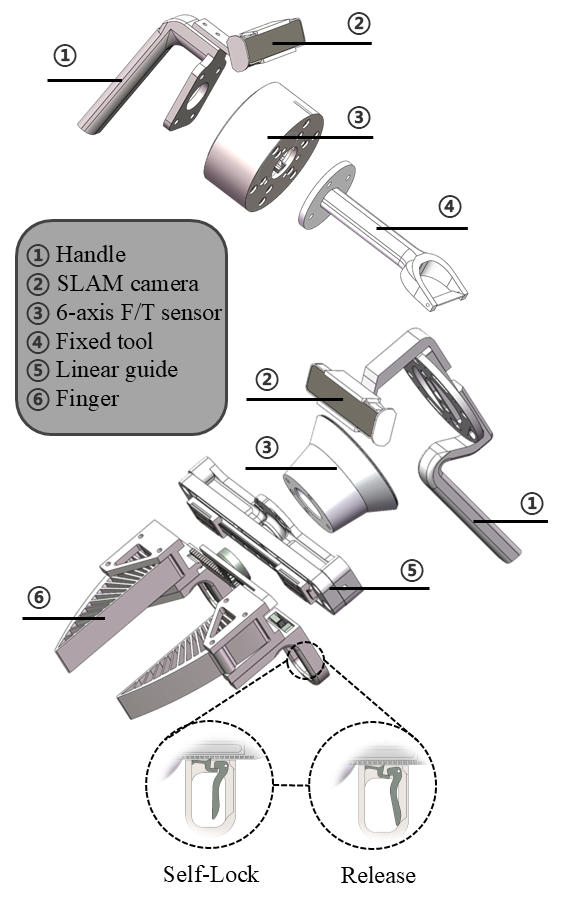
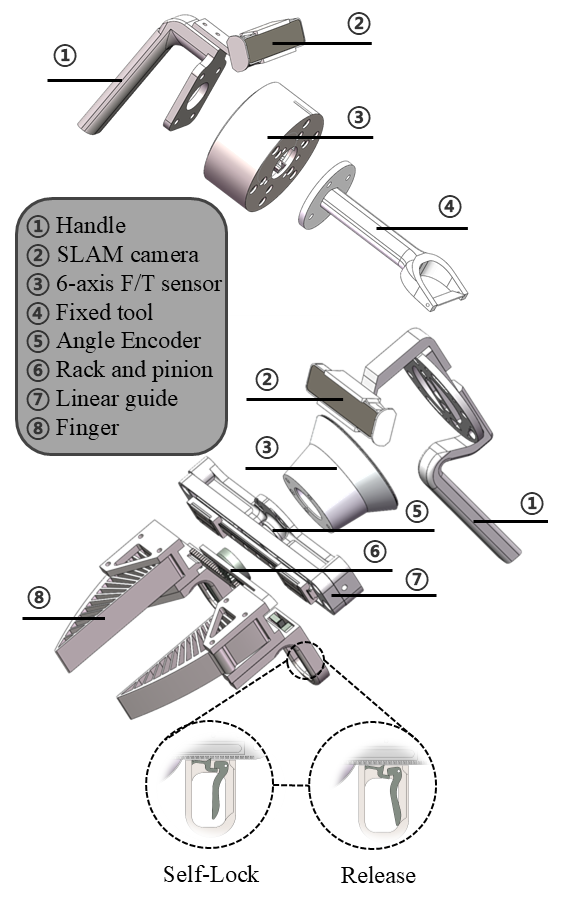
update conference

Changed region(s): [[0.0, 0.2161, 0.4198, 0.5248], [0.4198, 0.5557, 0.7795, 0.6792], [0.06, 0.6483, 0.0899, 0.6792]]

diff --git a/index.html b/index.html
@@ -89,9 +89,9 @@
                 <span>Force-Centric Imitation Learning with Force-Motion Capture System for Contact-Rich Manipulation</span>
               </h1>
 
-              <!-- <h4 class="title is-4 conference"><a href="https://2025.ieee-icra.org/" class="conference">IEEE International Conference on Robotics and Automation (<span class="grad_text">ICRA</span>) 2025</a></h4> -->
+              <h4 class="title is-4 conference"><a href="https://2025.ieee-icra.org/" class="conference">IEEE International Conference on Robotics and Automation (<span class="grad_text">ICRA</span>) 2025</a></h4>
 
-              <!-- <div class="is-size-5 publication-authors">
+              <div class="is-size-5 publication-authors">
                 <span class="author-block">
                   <a href="mailto:sjtu-wenhai@sjtu.edu.cn">Wenhai Liu</a
                   ><sup>*</sup>,
@@ -110,7 +110,7 @@
                 </span>
                 <span class="author-block">
                   <a href="https://www.mvig.org/">Cewu Lu</a
-                    ><sup>&dagger;</sup>,
+                    ><sup>&dagger;</sup>
                 </span>
               </div>
 
@@ -123,13 +123,13 @@
                 ><span class="author-block"> Equal Contribution</span
                 >, <sup>&dagger;</sup
                 ><span class="author-block"> Corresponding Author</span>)
-              </div> -->
+              </div>
 
               <div class="column has-text-centered">
                 <div class="publication-links">
                   <span class="link-block">
                     <a
-                      href=""
+                      href="https://arxiv.org/abs/2410.07554"
                       class="external-link button is-normal is-rounded is-orange"
                     >
                       <span class="icon">
@@ -151,24 +151,24 @@
                   </span>
                   <span class="link-block">
                     <a
-                    href=""
+                    href="https://github.com/ForceMimic/forcecapture"
                     class="external-link button is-normal is-rounded is-orange"
                     >
                     <span class="icon">
-                      <i class="fa fa-wrench"></i>
+                      <i class="fab fa-github"></i>
                     </span>
-                    <span>Hardware (coming soon)</span>
+                    <span>ForceCapture</span>
                   </a>
                 </span>
                 <span class="link-block">
                   <a
-                    href=""
+                    href="https://github.com/ForceMimic/hybridil"
                     class="external-link button is-normal is-rounded is-orange"
                   >
                     <span class="icon">
                       <i class="fab fa-github"></i>
                     </span>
-                    <span>Code (coming soon)</span>
+                    <span>HybridIL</span>
                   </a>
                 </span>
                 </div>
@@ -356,7 +356,7 @@
               />
 
             <p>
-              We first transfer the collected robot-free data to (pseudo-)robot data, migrating the domain gap.
+              We first transfer the collected robot-free data to (pseudo-)robot data, bridging the domain gap.
               The captured wrench is compensated to account for self-gravity effects.
               The pose recorded by SLAM camera is transformed as the robot TCP pose.
               And RGB-D observation images are backprojected into point cloud and filtered out unrelated points.
@@ -689,13 +689,18 @@
       </div>
     </section>
 
-    <!-- <section class="section" id="BibTeX">
+    <section class="section" id="BibTeX">
       <div class="container is-max-desktop content">
         <div class="columns is-centered has-text-centered">
           <h2 class="title">BibTeX</h2>
         </div>
         <p>If you find it helpful, please consider citing our work: </p>
-        <pre><code>
+        <pre><code>@inproceedings{liu2025forcemimic,
+  author={Liu, Wenhai and Wang, Junbo and Wang, Yiming and Wang, Weiming and Lu, Cewu},
+  booktitle={2025 IEEE International Conference on Robotics and Automation (ICRA)}, 
+  title={ForceMimic: Force-Centric Imitation Learning with Force-Motion Capture System for Contact-Rich Manipulation}, 
+  year={2025}
+}
 </code></pre>
       <p>
         If you have further questions, please feel free to drop an email to
@@ -704,7 +709,7 @@
         <a href="mailto:sommerfeld@sjtu.edu.cn">sommerfeld@sjtu.edu.cn</a>.
       </p>
       </div>
-    </section> -->
+    </section>
 
     <footer class="footer">
       <div class="container">
